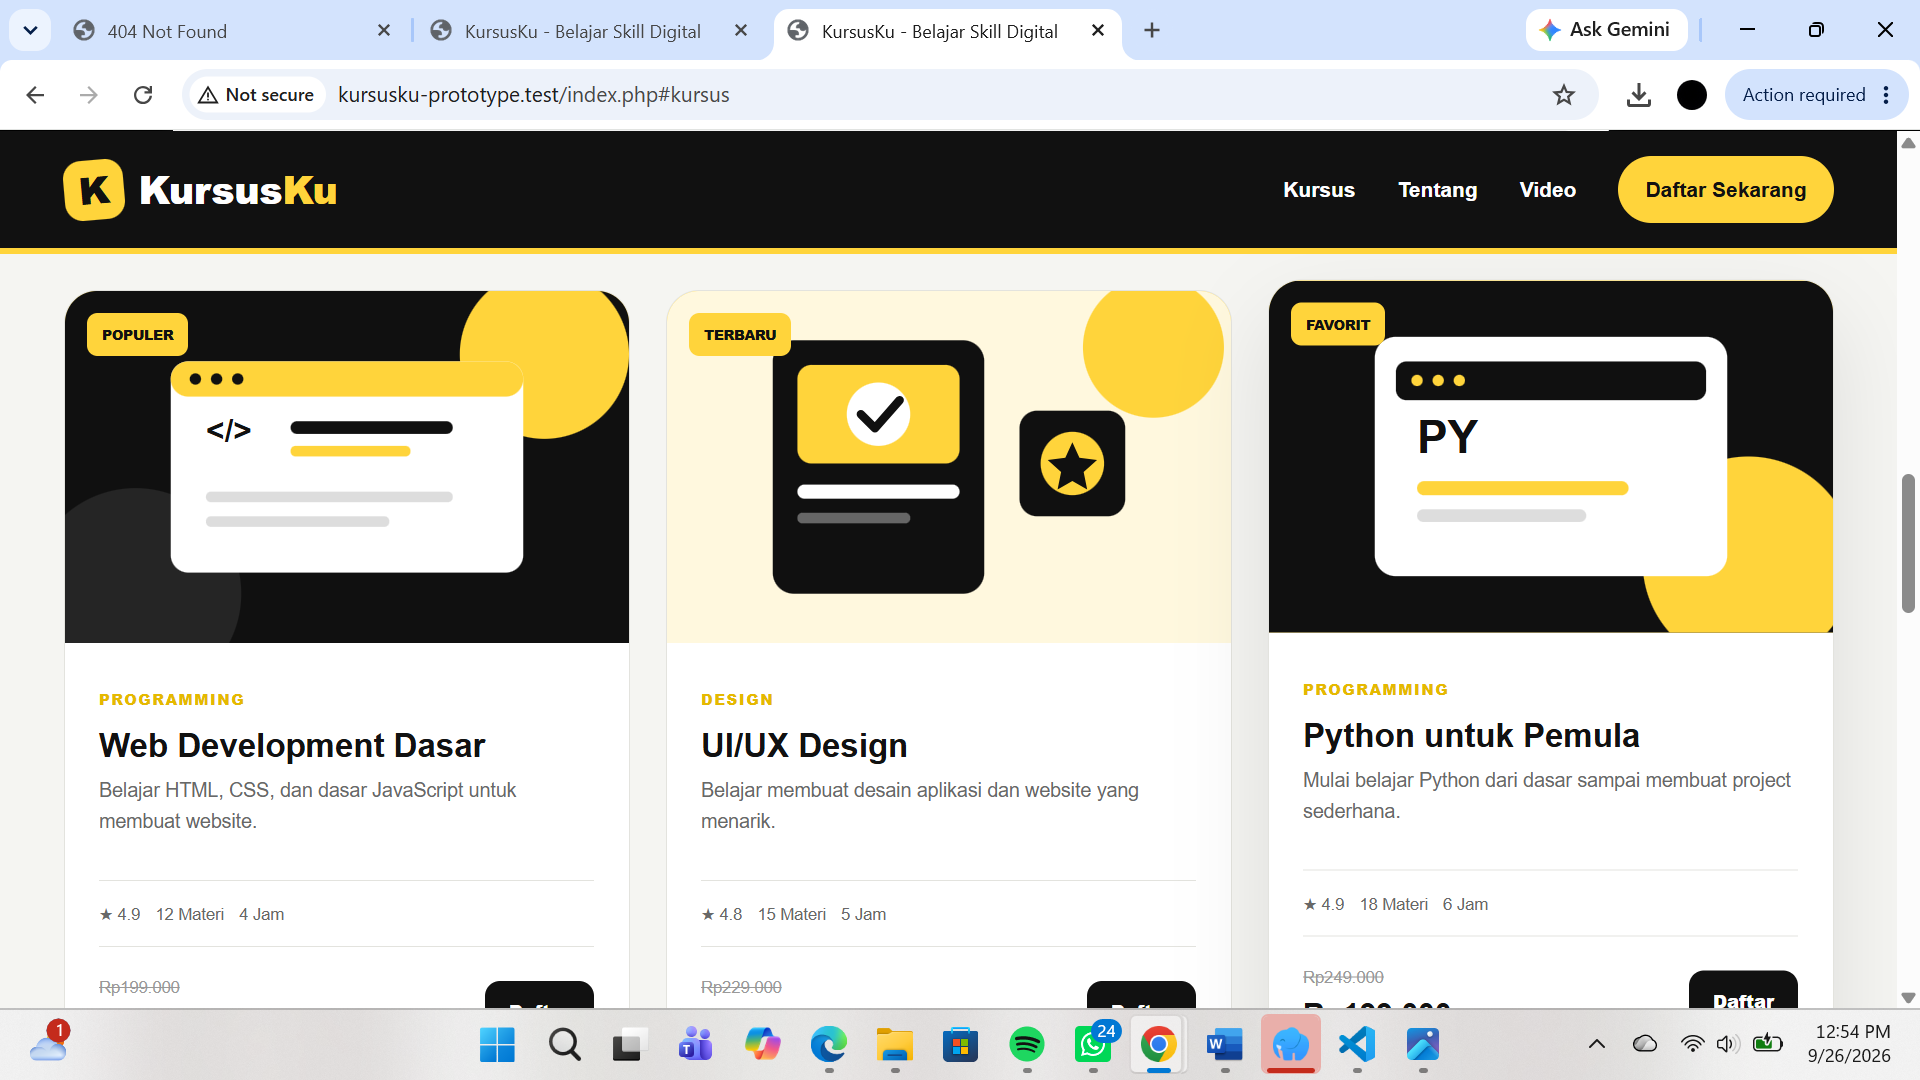
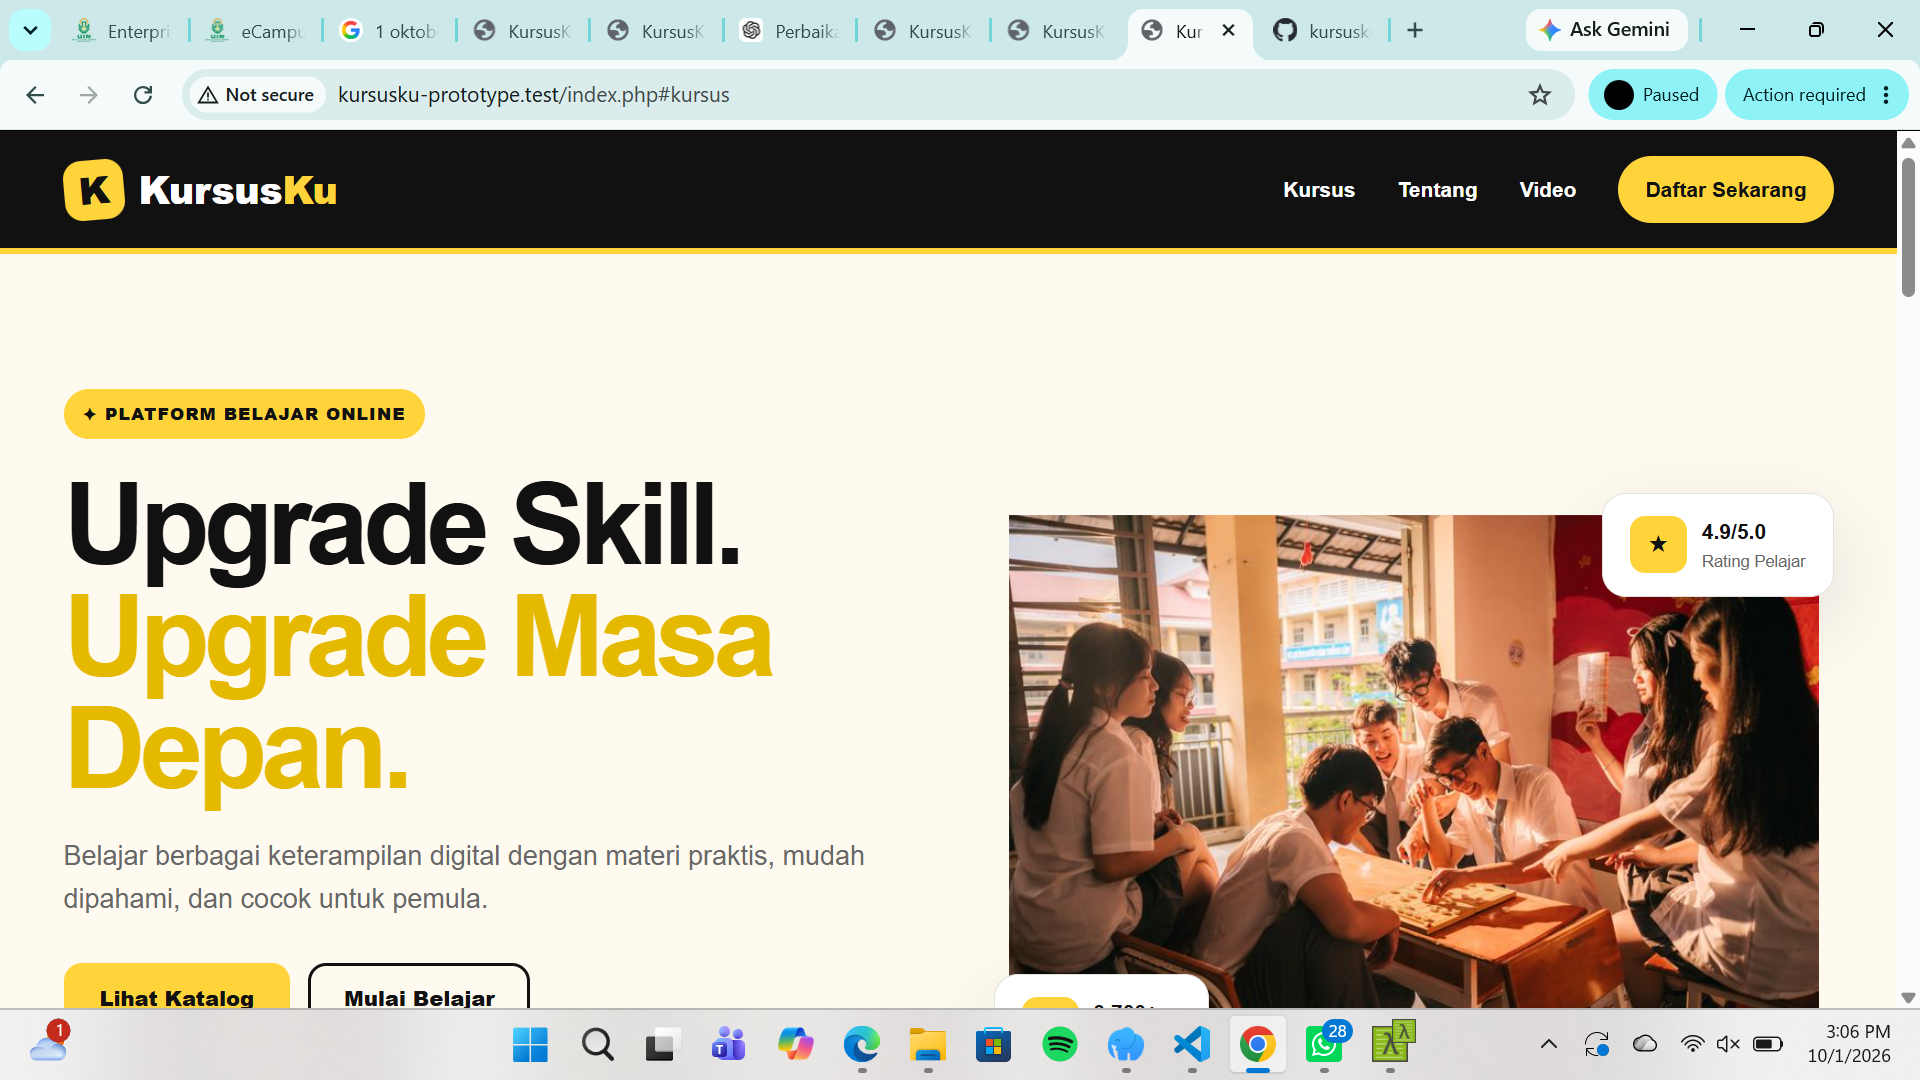
Update KursusKu Prototype

diff --git a/index.php b/index.php
@@ -186,7 +186,7 @@
         <div class="hero-image">
 
             <img
-                src="evidence/week-02/hero.jpg"
+                src="assets/images/hero-.jpg"
                 alt="Ilustrasi belajar online"
             >
 
@@ -401,7 +401,7 @@
                 <div class="course-image">
 
                     <img
-                        src="evidence/week-02/web%20development.svg"
+                        src="assets/images/web development.svg"
                         alt="Web Development"
                     >
 
@@ -486,7 +486,7 @@
                 <div class="course-image">
 
                     <img
-                        src="evidence/week-02/ui-ux.svg"
+                        src="assets/images/ui-ux.svg"
                         alt="UI UX Design"
                     >
 
@@ -571,7 +571,7 @@
                 <div class="course-image">
 
                     <img
-                        src="evidence/week-02/python.svg"
+                        src="assets/images/python.svg"
                         alt="Python untuk Pemula"
                     >
 
@@ -765,7 +765,7 @@
             >
 
                 <source
-                    src="evidence/week-02/video.mp4"
+                    src="assets/video/video.mp4"
                     type="video/mp4"
                 >
 
